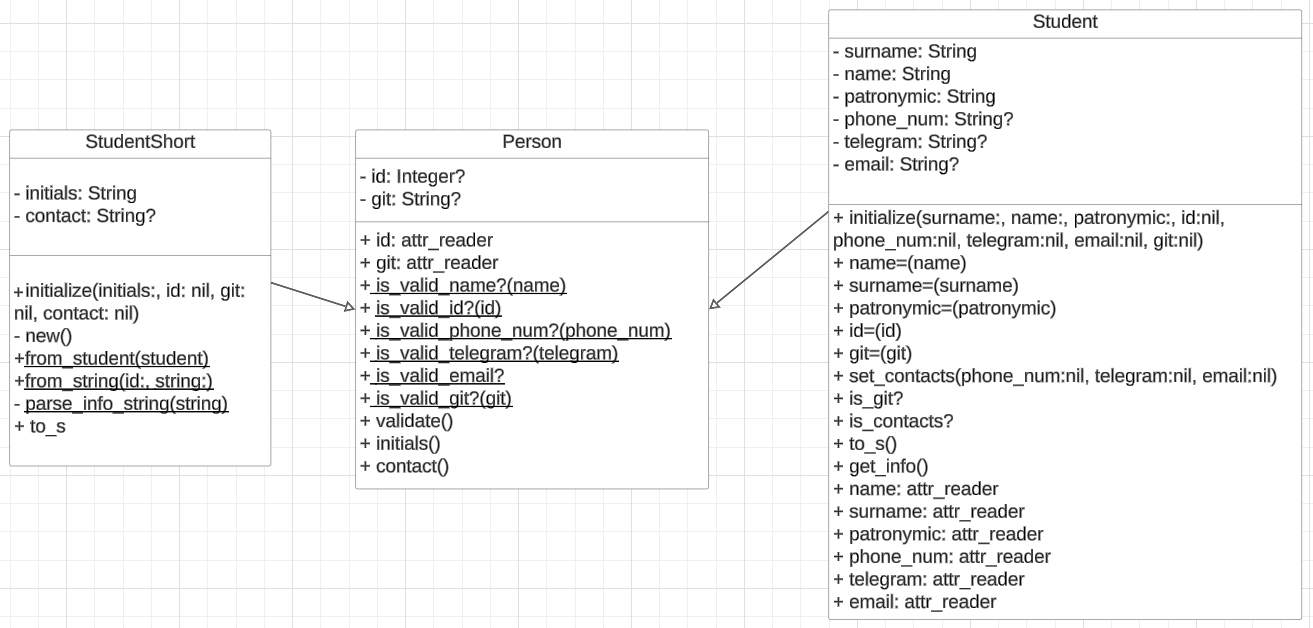
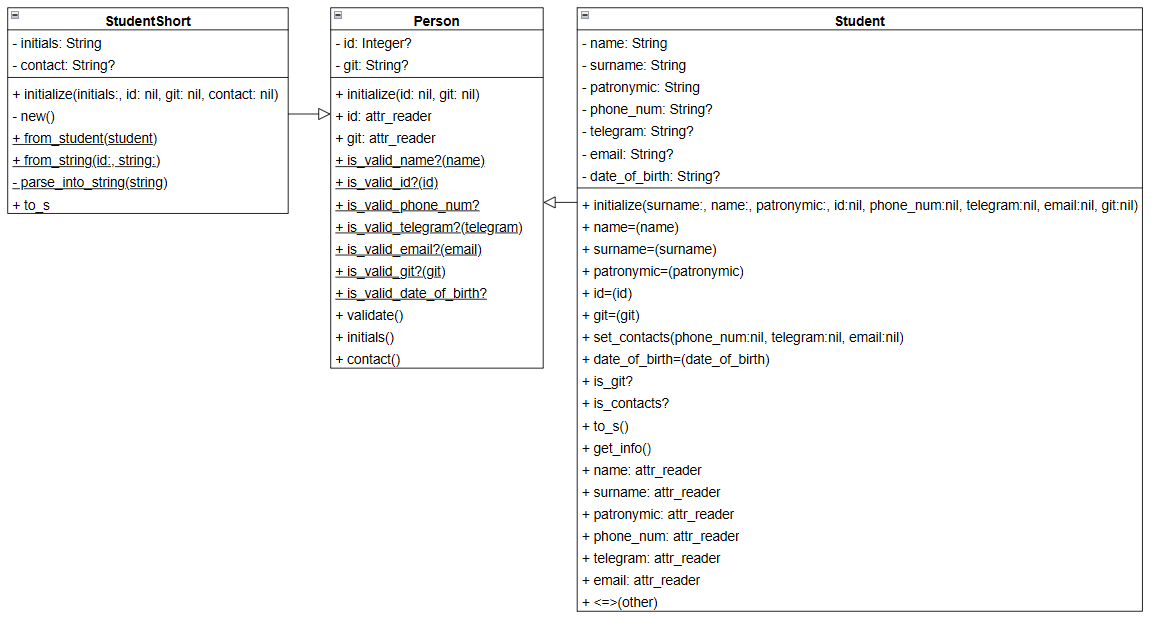
L3 T4 Date of birth field & Binary Tree added

diff --git a/Class Student/Student.rb b/Class Student/Student.rb
@@ -2,20 +2,39 @@ require './Person.rb'
 
 class Student < Person
 	
+	include Comparable
+	
 	##Object initialization
 	
-	def initialize (surname:, name:, patronymic:, id:nil, phone_num:nil, telegram:nil, email:nil, git:nil)
+	def initialize (surname:, name:, patronymic:, id:nil, phone_num:nil, telegram:nil, email:nil, git:nil, date_of_birth:nil)
 		self.surname = surname
 		self.name = name
 		self.patronymic = patronymic
+		self.date_of_birth = date_of_birth
 		super(id: id, git: git)
 		set_contacts(phone_num:phone_num, telegram:telegram, email:email)
 	end
 	
 	##Getter for everything
 	
-	attr_reader :name, :surname, :patronymic, :phone_num, :telegram, :email
+	attr_reader :name, :surname, :patronymic, :phone_num, :telegram, :email, :date_of_birth
 	
+	def <=>(other)
+		if other.is_a?(Student)
+		  self.date_of_birth <=> other.date_of_birth
+		else
+		  raise ArgumentError, "Can't compare #{self.class} with #{other.class}"
+		end
+	end
+
+	def date_of_birth=(date_of_birth)
+		if self.class.is_valid_date_of_birth?(date_of_birth)
+			@date_of_birth = date_of_birth
+		else
+			raise ArgumentError, "\n Date of birth (#{name}) has the wrong format and was not recorded."
+		end
+	end
+
 	## Name setter
 	
 	def name=(name)
@@ -93,7 +112,8 @@ class Student < Person
 		(phone_num ? ("\nPhone number - #{@phone_num}") : "") +\
 		(telegram ? ("\nTelegram - #{@telegram}") : "") +\
 		(email ? ("\nEmail - #{@email}") : "")  +\
-		(git ? ("\nGithub - #{@git}\n") : "")
+		(git ? ("\nGithub - #{@git}") : "") +\
+		(date_of_birth ? ("\nDate of birth - #{@date_of_birth}\n") : "")
 	end
 	
 	

diff --git a/Class Student/main.rb b/Class Student/main.rb
@@ -1,15 +1,27 @@
-require_relative 'Student_class'
-require_relative 'StudentShort_class'
+require_relative 'Student'
+require_relative 'StudentShort'
+require_relative 'BinaryTree.rb'
 
 begin
-student_ivan = Student.new(surname:"Ivanov", name:"Ivan-Ivan", patronymic:"Ivanovich", id: 1, phone_num:"+79509995552", telegram:"@ivanich", email:"ivanich@mail.ru", git:"https://github.com/ivanich")
+	student_ivan = Student.new(surname:"Ivanov", name:"Ivan-Ivan", patronymic:"Ivanovich", id: 1, phone_num:"+79509995552", telegram:"@ivanich", email:"ivanich@mail.ru", git:"https://github.com/ivanich", date_of_birth:"12.11.2004")
+	student_ivan2 = Student.new(surname:"Ivanov", name:"Ivan", patronymic:"Ivanovich", id: 1, phone_num:"+79509995552", telegram:"@ivanich", email:"ivanich@mail.ru", git:"https://github.com/ivanich", date_of_birth:"12.11.2102")
 student_short_ivan = StudentShort.from_student(student_ivan)
 rescue ArgumentError => e
 	puts "#{e.message}"
 end
 
-puts student_ivan
-puts student_short_ivan
+puts student_ivan.date_of_birth
+puts student_ivan2.date_of_birth
+
+puts student_ivan.date_of_birth > student_ivan2.date_of_birth
+
+tree = BinaryTree.new
+tree.add(student_ivan)
+tree.add(student_ivan2)
+
+tree.iterator.each do |node|
+	puts node.name
+end
 
 
 

diff --git a/Class Student/BinaryTree.rb b/Class Student/BinaryTree.rb
@@ -1,0 +1,49 @@
+require_relative 'Node.rb'
+require_relative 'Student.rb'
+require_relative 'BinaryTreeIterator.rb'
+
+class BinaryTree 
+    
+    include Enumerable
+    
+    attr_accessor :root
+
+    def initialize
+        self.root = nil
+    end
+
+    def add(value)
+        new_node = value.is_a?(Student) ? Node.new(value: value) : nil
+
+        if new_node.nil?
+            raise ArgumentError, 'Invalid argument'
+        end
+
+        if self.root.nil?
+            self.root = new_node
+        else
+        insert(self.root, new_node)
+        end
+    end
+
+    def iterator 
+        Binary_iterator.new(self.root)
+    end
+
+    private
+
+    def insert(root, node)
+        return node if root.nil?
+
+        if node.value < root.value
+            insert(root.left, node)
+            root.left = node
+            root.left.parent = root
+        else 
+            insert(root.right, node)
+            root.right = node
+            root.right.parent = root
+        end
+    end
+
+    end

diff --git a/Class Student/BinaryTreeIterator.rb b/Class Student/BinaryTreeIterator.rb
@@ -1,0 +1,21 @@
+class Binary_iterator
+    include Enumerable
+  
+    def initialize(root)
+      @root = root
+    end
+  
+    def each(&block)
+      traverse_in_order(@root, &block)
+    end
+  
+    private
+  
+    def traverse_in_order(node, &block)
+      return if node.nil?
+  
+      traverse_in_order(node.left, &block)
+      block.call(node.value)
+      traverse_in_order(node.right, &block)
+    end
+  end

diff --git a/Class Student/Person.rb b/Class Student/Person.rb
@@ -41,6 +41,10 @@ class Person
 	def self.is_valid_git?(git)
 		!!(git == nil || git =~ /^https?:\/\/(www\.)?github\.com\/[A-Za-z0-9_-]+(\/[A-Za-z0-9._-]+)?(\/.*)?$/)
 	end
+
+	def self.is_valid_date_of_birth?(date_of_birth)
+		!!(date_of_birth == nil || date_of_birth =~ /^\A(\d{2}\.\d{2}\.(\d{4}))\z$/)
+	end
 	
 	def validate
     !@git.nil? && (!@telegram.nil? || !@email.nil? || !@phone_num.nil? || !@contact.nil?)

diff --git a/Class Student/Node.rb b/Class Student/Node.rb
@@ -1,0 +1,11 @@
+class Node
+    attr_accessor :value, :left, :right, :parent
+  
+    def initialize(value: nil, left: nil, right: nil, parent: nil)
+      self.value = value
+      self.left = left
+      self.right = right
+      self.parent = parent
+    end
+  
+  end
